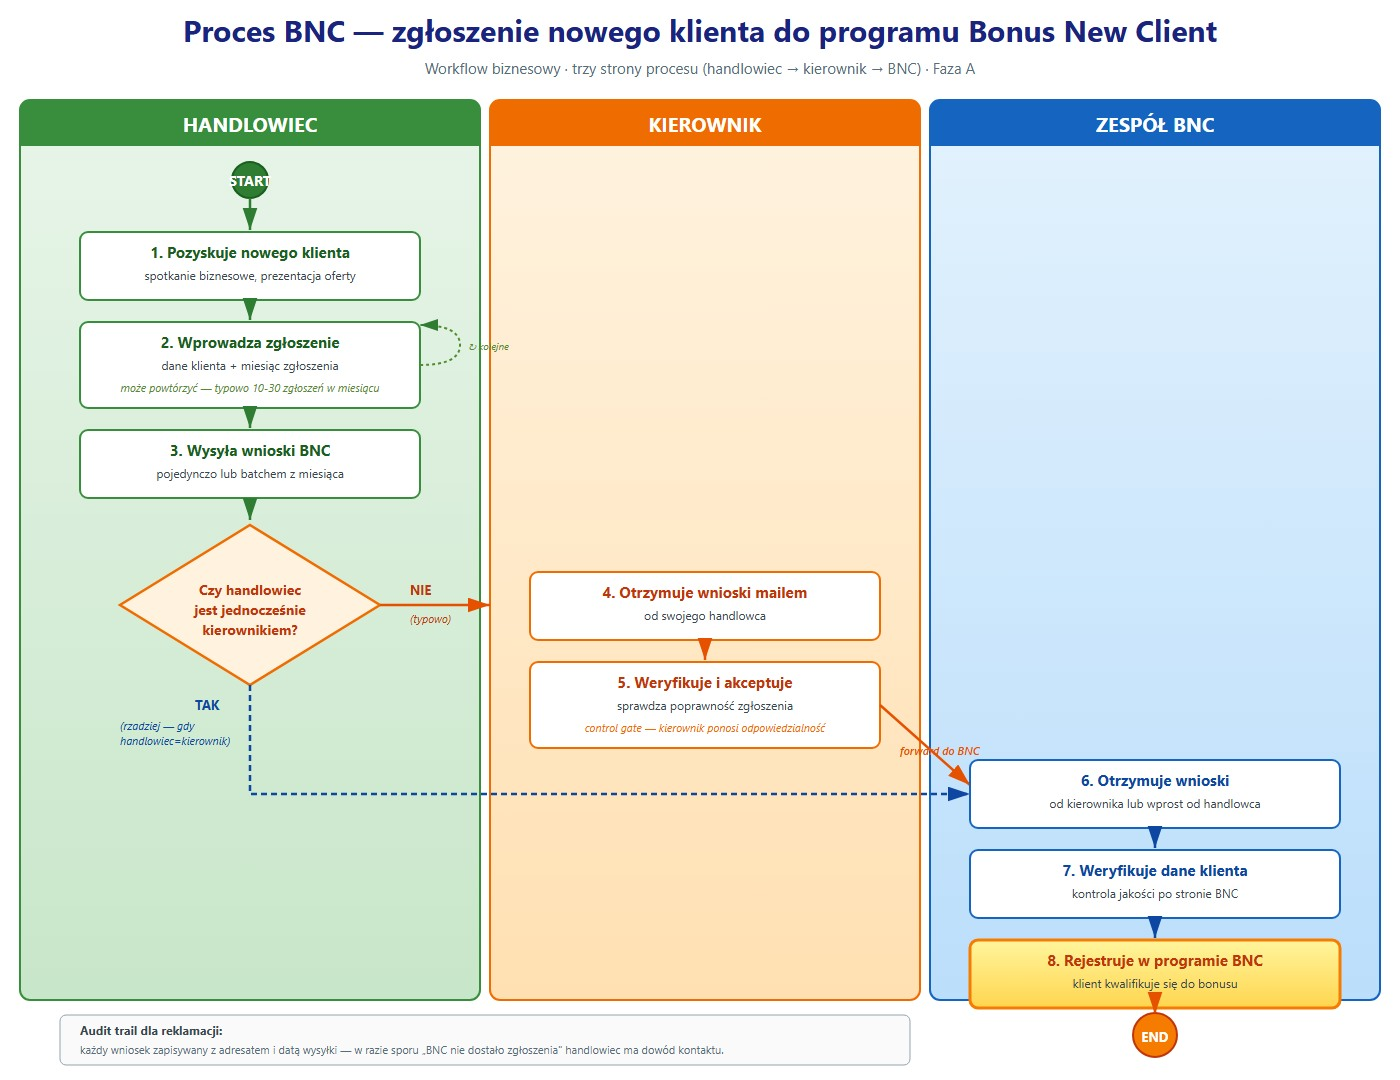
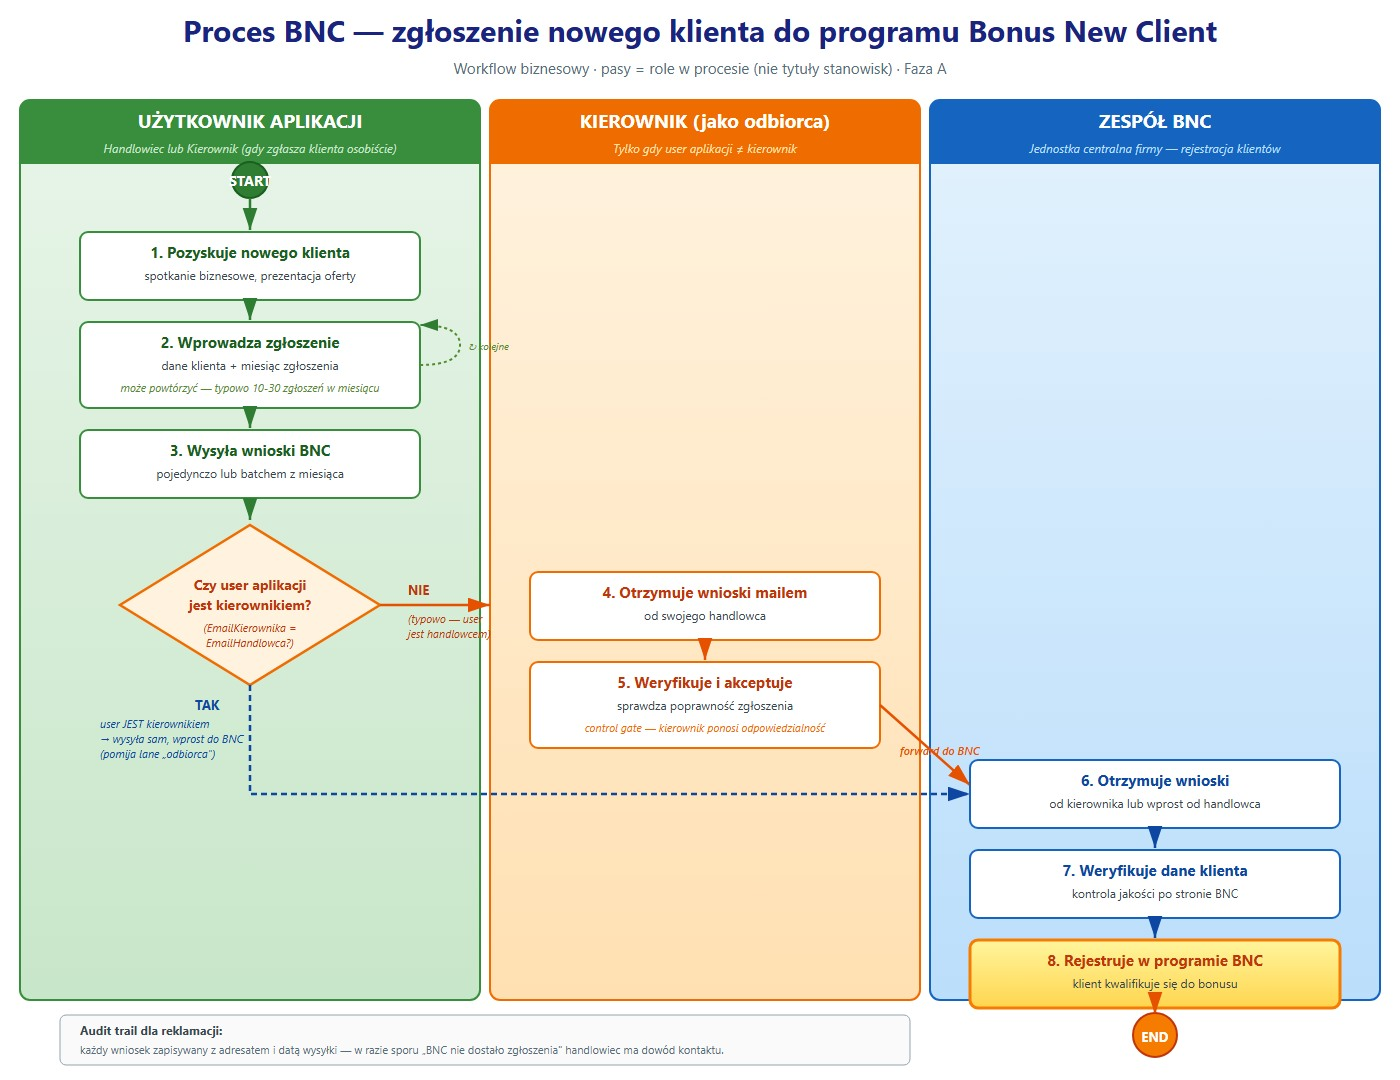
docs(diagrams): 06 v2 - lane'y jako role, nie stanowiska
Bug: lane "HANDLOWIEC" sugerowal ze wylacznie sales rep moze byc userem
aplikacji. W rzeczywistosci kierownik takze moze byc userem (gdy zglasza
klienta osobiscie - convention over configuration EmailKierownika ==
EmailHandlowca).

Refactor lane heads (wszystkie z dwuwierszowym nagłowkiem main + subtitle):
- Lane 1: HANDLOWIEC -> "UZYTKOWNIK APLIKACJI"
  subtitle: "Handlowiec lub Kierownik (gdy zglasza klienta osobiscie)"
- Lane 2: KIEROWNIK -> "KIEROWNIK (jako odbiorca)"
  subtitle: "Tylko gdy user aplikacji != kierownik"
- Lane 3: ZESPOL BNC bez zmian, dodany subtitle
  "Jednostka centralna firmy - rejestracja klientow"

Lane head height 46px -> 64px (mieszczenie subtitle).

Diamond (decision gate):
- Bylo: "Czy handlowiec jest jednoczesnie kierownikiem?"
- Jest: "Czy user aplikacji jest kierownikiem?"
- Dodana nota techniczna pod tekstem: "(EmailKierownika = EmailHandlowca?)"

Branch labels:
- NIE: "typowo - user jest handlowcem"
- TAK: "user JEST kierownikiem -> wysyla sam, wprost do BNC,
  pomija lane 'odbiorca'"

Subtitle nad swim lanes:
- Bylo: "trzy strony procesu (handlowiec -> kierownik -> BNC)"
- Jest: "pasy = role w procesie (nie tytuly stanowisk)"

MD 06_business_process_v2.md - sekcja 2 przepisana:
- Dodana tabela "Trzy role w workflow" - jasno rozdziela rolaa od stanowiska
- Krotki opis kroków uzywa "User" zamiast "Handlowiec" tam gdzie to dotyczy roli
- Nowa sekcja "Mechanika decyzji w aplikacji" - opisuje convention over
[…]

diff --git a/doc_v2/diagrams/06_business_process_v2.html b/doc_v2/diagrams/06_business_process_v2.html
@@ -40,7 +40,7 @@
     Proces BNC — zgłoszenie nowego klienta do programu Bonus New Client
   </text>
   <text x="700" y="74" text-anchor="middle" font-size="15" fill="#546e7a">
-    Workflow biznesowy · trzy strony procesu (handlowiec → kierownik → BNC) · Faza A
+    Workflow biznesowy · pasy = role w procesie (nie tytuły stanowisk) · Faza A
   </text>
 
   <!-- SWIM LANES -->
@@ -48,17 +48,23 @@
   <rect x="490" y="100" width="430" height="900" rx="10" fill="url(#laneOrange)" stroke="#ef6c00" stroke-width="2"/>
   <rect x="930" y="100" width="450" height="900" rx="10" fill="url(#laneBlue)" stroke="#1565c0" stroke-width="2"/>
 
-  <rect x="20" y="100" width="460" height="46" rx="10" fill="#388e3c"/>
-  <rect x="20" y="130" width="460" height="16" fill="#388e3c"/>
-  <text x="250" y="132" text-anchor="middle" font-size="20" font-weight="700" fill="white">HANDLOWIEC</text>
+  <!-- Lane head: UŻYTKOWNIK APLIKACJI (handlowiec lub kierownik) -->
+  <rect x="20" y="100" width="460" height="64" rx="10" fill="#388e3c"/>
+  <rect x="20" y="140" width="460" height="24" fill="#388e3c"/>
+  <text x="250" y="128" text-anchor="middle" font-size="19" font-weight="700" fill="white">UŻYTKOWNIK APLIKACJI</text>
+  <text x="250" y="153" text-anchor="middle" font-size="12" fill="#c8e6c9" font-style="italic">Handlowiec lub Kierownik (gdy zgłasza klienta osobiście)</text>
 
-  <rect x="490" y="100" width="430" height="46" rx="10" fill="#ef6c00"/>
-  <rect x="490" y="130" width="430" height="16" fill="#ef6c00"/>
-  <text x="705" y="132" text-anchor="middle" font-size="20" font-weight="700" fill="white">KIEROWNIK</text>
+  <!-- Lane head: KIEROWNIK (jako odbiorca) -->
+  <rect x="490" y="100" width="430" height="64" rx="10" fill="#ef6c00"/>
+  <rect x="490" y="140" width="430" height="24" fill="#ef6c00"/>
+  <text x="705" y="128" text-anchor="middle" font-size="19" font-weight="700" fill="white">KIEROWNIK (jako odbiorca)</text>
+  <text x="705" y="153" text-anchor="middle" font-size="12" fill="#ffe0b2" font-style="italic">Tylko gdy user aplikacji ≠ kierownik</text>
 
-  <rect x="930" y="100" width="450" height="46" rx="10" fill="#1565c0"/>
-  <rect x="930" y="130" width="450" height="16" fill="#1565c0"/>
-  <text x="1155" y="132" text-anchor="middle" font-size="20" font-weight="700" fill="white">ZESPÓŁ BNC</text>
+  <!-- Lane head: ZESPÓŁ BNC -->
+  <rect x="930" y="100" width="450" height="64" rx="10" fill="#1565c0"/>
+  <rect x="930" y="140" width="450" height="24" fill="#1565c0"/>
+  <text x="1155" y="128" text-anchor="middle" font-size="19" font-weight="700" fill="white">ZESPÓŁ BNC</text>
+  <text x="1155" y="153" text-anchor="middle" font-size="12" fill="#bbdefb" font-style="italic">Jednostka centralna firmy — rejestracja klientów</text>
 
   <!-- ============== HANDLOWIEC FLOW ============== -->
   <circle cx="250" cy="180" r="18" fill="#2e7d32" stroke="#1b5e20" stroke-width="2"/>
@@ -90,18 +96,21 @@
 
   <!-- DIAMOND -->
   <polygon points="250,525 380,605 250,685 120,605" fill="#fff3e0" stroke="#ef6c00" stroke-width="2.5"/>
-  <text x="250" y="595" text-anchor="middle" font-size="14" font-weight="700" fill="#bf360c">Czy handlowiec</text>
-  <text x="250" y="615" text-anchor="middle" font-size="14" font-weight="700" fill="#bf360c">jest jednocześnie</text>
-  <text x="250" y="635" text-anchor="middle" font-size="14" font-weight="700" fill="#bf360c">kierownikiem?</text>
+  <text x="250" y="590" text-anchor="middle" font-size="14" font-weight="700" fill="#bf360c">Czy user aplikacji</text>
+  <text x="250" y="610" text-anchor="middle" font-size="14" font-weight="700" fill="#bf360c">jest kierownikiem?</text>
+  <text x="250" y="632" text-anchor="middle" font-size="11" fill="#bf360c" font-style="italic">(EmailKierownika =</text>
+  <text x="250" y="647" text-anchor="middle" font-size="11" fill="#bf360c" font-style="italic">EmailHandlowca?)</text>
 
   <line x1="380" y1="605" x2="490" y2="605" stroke="#e65100" stroke-width="2.5" marker-end="url(#arrowOrange)"/>
-  <text x="410" y="595" font-size="13" font-weight="700" fill="#bf360c">NIE</text>
-  <text x="410" y="623" font-size="11" fill="#bf360c" font-style="italic">(typowo)</text>
+  <text x="408" y="595" font-size="13" font-weight="700" fill="#bf360c">NIE</text>
+  <text x="408" y="623" font-size="11" fill="#bf360c" font-style="italic">(typowo — user</text>
+  <text x="408" y="638" font-size="11" fill="#bf360c" font-style="italic">jest handlowcem)</text>
 
   <path d="M 250 685 L 250 794 L 970 794" fill="none" stroke="#0d47a1" stroke-width="2.5" stroke-dasharray="6,4" marker-end="url(#arrowBlue)"/>
   <text x="195" y="710" font-size="13" font-weight="700" fill="#0d47a1">TAK</text>
-  <text x="120" y="730" font-size="11" fill="#0d47a1" font-style="italic">(rzadziej — gdy</text>
-  <text x="120" y="745" font-size="11" fill="#0d47a1" font-style="italic">handlowiec=kierownik)</text>
+  <text x="100" y="728" font-size="11" fill="#0d47a1" font-style="italic">user JEST kierownikiem</text>
+  <text x="100" y="743" font-size="11" fill="#0d47a1" font-style="italic">→ wysyła sam, wprost do BNC</text>
+  <text x="100" y="758" font-size="11" fill="#0d47a1" font-style="italic">(pomija lane „odbiorca")</text>
 
   <!-- ============== KIEROWNIK FLOW ============== -->
   <rect x="530" y="572" width="350" height="68" rx="8" fill="white" stroke="#ef6c00" stroke-width="2"/>

diff --git a/doc_v2/diagrams/06_business_process_v2.md b/doc_v2/diagrams/06_business_process_v2.md
@@ -44,24 +44,42 @@ Aplikacja **BNC_Sender** (plik Excel z makrami VBA, instalowany lokalnie u każd
 
 ## 2. Workflow biznesowy (Faza A)
 
-Diagram pokazuje **trzy strony procesu** (handlowiec → kierownik → BNC) i **decision diamond** różnicujący wysyłkę zależnie od roli usera.
+Diagram pokazuje **trzy role w procesie** (nie tytuły stanowisk) i **decision diamond** różnicujący wysyłkę zależnie od roli usera aplikacji.
 
 📊 **Graf**: [`06_business_process_v2.jpg`](06_business_process_v2.jpg)
 
+### Trzy role w workflow
+
+| Lane | Co reprezentuje | Kto wchodzi w tę rolę |
+|---|---|---|
+| **UŻYTKOWNIK APLIKACJI** | Osoba która wprowadza zgłoszenia i klika "Wyślij" | **Handlowiec** (typowo) lub **Kierownik** (gdy zgłasza klienta osobiście) |
+| **KIEROWNIK (jako odbiorca)** | Osoba która weryfikuje i forwarduje wnioski od handlowca do BNC | Kierownik handlowca — **tylko gdy user aplikacji ≠ kierownik** |
+| **ZESPÓŁ BNC** | Jednostka centralna firmy rejestrująca klientów w programie | Zespół BNC |
+
+> **Kluczowe**: Lane 1 to **rola**, nie konkretne stanowisko. Kierownik może być w tej samej osobie userem aplikacji (gdy sam zgłasza klienta) — wtedy mail leci wprost do BNC, omijając rolę "odbiorca".
+
 ### Krótki opis przepływu
 
-1. **Handlowiec pozyskuje nowego klienta** (spotkanie biznesowe).
-2. **Handlowiec wprowadza zgłoszenie** do aplikacji (dane klienta + miesiąc).
+1. **User pozyskuje nowego klienta** (spotkanie biznesowe).
+2. **User wprowadza zgłoszenie** do aplikacji (dane klienta + miesiąc).
    - Krok 2 może powtórzyć — typowo 10–30 zgłoszeń w trakcie miesiąca.
-3. **Handlowiec wysyła wnioski BNC** (pojedynczo lub batchem z miesiąca).
-4. **Decision diamond**: czy handlowiec jest jednocześnie kierownikiem?
-   - **NIE** (typowo) — mail leci do kierownika.
-   - **TAK** (rzadziej) — mail leci wprost do BNC, omijając kierownik (path TAK na diagramie).
-5. **Kierownik otrzymuje wnioski mailem** od swojego handlowca.
+3. **User wysyła wnioski BNC** (pojedynczo lub batchem z miesiąca).
+4. **Decision diamond**: czy user aplikacji jest kierownikiem?
+   - **NIE** (typowo — user jest handlowcem) → mail leci do kierownika jako "odbiorca akceptujący".
+   - **TAK** (user JEST kierownikiem) → mail leci wprost do BNC, **pomija lane "odbiorca"**.
+5. **Kierownik (jako odbiorca) otrzymuje wnioski mailem** od swojego handlowca.
 6. **Kierownik weryfikuje i akceptuje** — **control gate**, kierownik ponosi odpowiedzialność za poprawność.
-7. **Zespół BNC otrzymuje wnioski** (od kierownika lub wprost od handlowca, gdy ten jest jednocześnie kierownikiem).
+7. **Zespół BNC otrzymuje wnioski** (od kierownika-odbiorcy LUB wprost od usera-kierownika).
 8. **Zespół BNC weryfikuje dane klienta** (kontrola jakości).
 9. **Zespół BNC rejestruje klienta w programie BNC** — klient kwalifikuje się do bonusu.
+
+### Mechanika decyzji w aplikacji
+
+Aplikacja rozpoznaje rolę userka przez porównanie pól w setupie:
+- `EmailKierownika` ≠ `EmailHandlowca` → user jest handlowcem → mail leci do `EmailKierownika`
+- `EmailKierownika` = `EmailHandlowca` → user jest jednocześnie kierownikiem → mail leci wprost do `EmailBNC`
+
+Brak osobnego pola "IsKierownik" — to jest **convention over configuration** (patrz `ADR` w `04_data_model.md`).
 
 ### Audit trail dla reklamacji
 